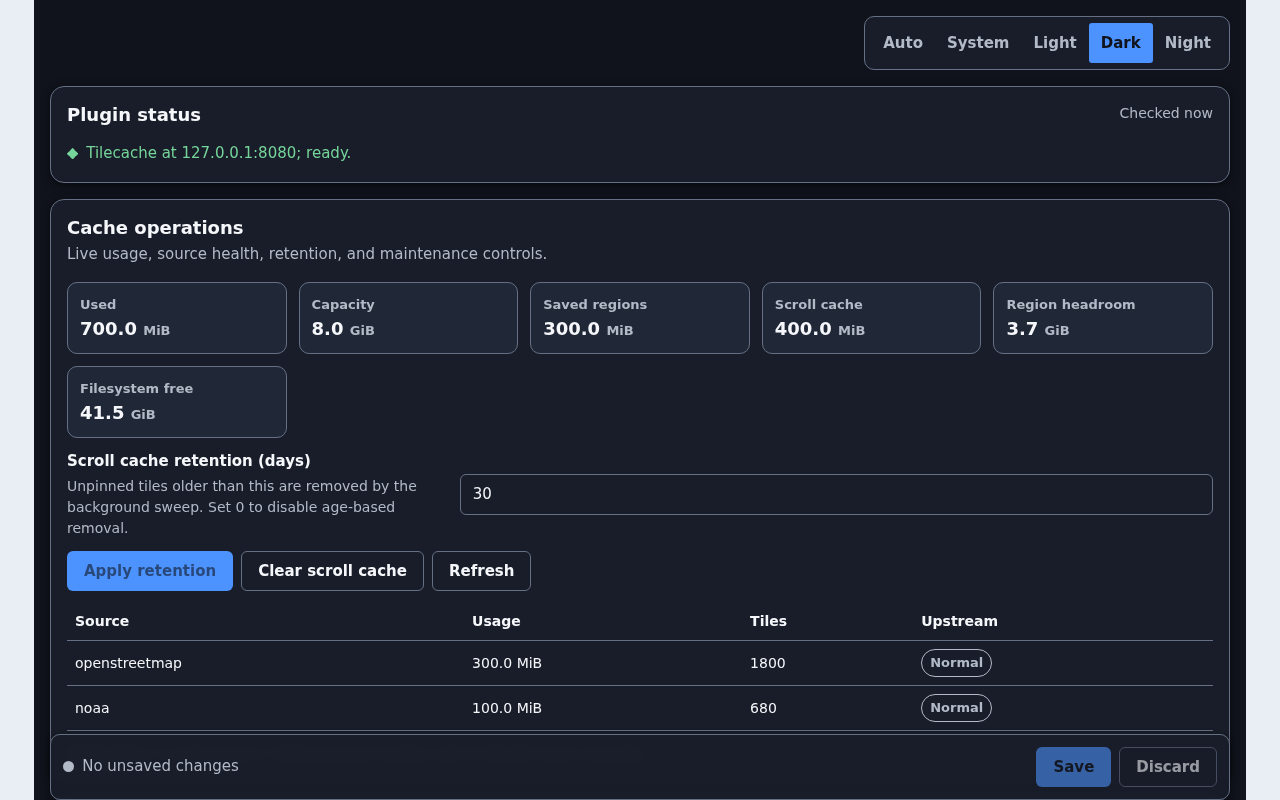
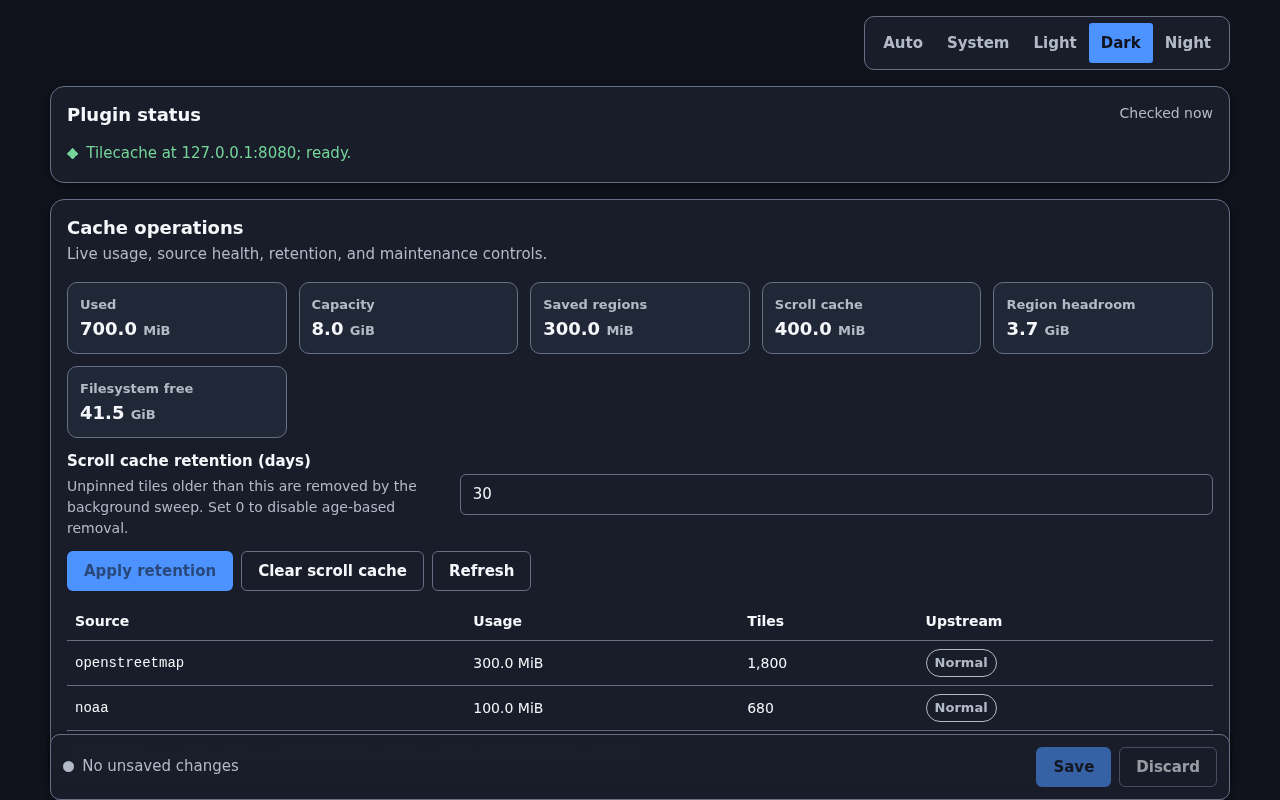
docs: refresh the App Store screenshots against a themed host
The committed captures were stale: they still showed per-source tile counts
unformatted, before those gained thousands separators. The dark and night
captures also showed the panel floating on the fixture's permanently light
page, since the host chrome never followed the panel theme.

Dress the host page in the shared token sheet and mirror the panel's theme onto
it, but only under the screenshots parameter. The tests keep the neutral light
host on purpose: the panel has to look right inside arbitrary Signal K Admin
chrome, and a sympathetic background would hide contrast bugs. Screenshots have
the opposite job, showing the theme the operator actually chose.

Capture no longer demands a fixed port either, so an unrelated server holding
it cannot fail a local authoring task.

diff --git a/fixtures/browser/main.tsx b/fixtures/browser/main.tsx
@@ -1,6 +1,10 @@
 import * as React from 'react'
 import * as ReactDOM from 'react-dom'
 import { createRoot } from 'react-dom/client'
+// Framework-neutral token sheet. Importing it executes no JavaScript and styles nothing on its own:
+// only an element carrying the snui-tokens class picks the variables up, which the screenshot run
+// below is the sole caller to do.
+import 'signalk-nearlcrews-ui/tokens.css'
 
 declare const __REMOTE_URL__: string
 
@@ -32,6 +36,45 @@ interface ShareScopeEntry<T> {
 
 const parameters = new URLSearchParams(window.location.search)
 const ACTION_DELAY_MS = 500
+
+/**
+ * Under ?screenshots only, dress the host page in the shared tokens and mirror the panel's theme onto
+ * it, so a dark or night capture does not show the panel floating on a permanently light page.
+ *
+ * The tests deliberately keep the neutral light host: the panel has to look right inside arbitrary
+ * Signal K Admin chrome, and asserting against a sympathetic background would hide contrast bugs. The
+ * App Store screenshots have the opposite job, showing the theme the operator actually chose. Tokens
+ * resolve on the element carrying both the class and the attribute, so both go on <body>.
+ */
+function mirrorPanelThemeOntoHost (): void {
+  document.body.classList.add('snui-tokens')
+  document.body.style.background = 'var(--snui-color-background)'
+  document.body.style.color = 'var(--snui-color-text)'
+
+  const attach = (root: Element): void => {
+    const apply = (): void => {
+      const theme = root.getAttribute('data-snui-theme')
+      if (theme === null) document.body.removeAttribute('data-snui-theme')
+      else document.body.setAttribute('data-snui-theme', theme)
+    }
+    apply()
+    new MutationObserver(apply).observe(root, { attributeFilter: ['data-snui-theme'] })
+  }
+
+  // React commits asynchronously, so the panel root is usually not in the DOM yet at this point.
+  const mounted = document.querySelector('[data-snui-root]')
+  if (mounted !== null) {
+    attach(mounted)
+    return
+  }
+  const waiting = new MutationObserver(() => {
+    const root = document.querySelector('[data-snui-root]')
+    if (root === null) return
+    waiting.disconnect()
+    attach(root)
+  })
+  waiting.observe(document.body, { childList: true, subtree: true })
+}
 if (parameters.has('unsupported-css-scope')) {
   Object.defineProperty(window, 'CSSScopeRule', {
     configurable: true,
@@ -240,6 +283,7 @@ try {
       <Panel configuration={initialConfiguration} save={save} />
     </React.StrictMode>
   )
+  if (parameters.has('screenshots')) mirrorPanelThemeOntoHost()
   document.body.dataset.fixtureReady = 'true'
 } catch (error) {
   const message = error instanceof Error ? error.message : String(error)

diff --git a/fixtures/browser/css.d.ts b/fixtures/browser/css.d.ts
@@ -1,0 +1,3 @@
+// The fixture imports the shared token sheet for its side effect only, to dress the host page during
+// the screenshot run. Plain stylesheets carry no type declarations, unlike the panel's CSS modules.
+declare module '*.css' {}
